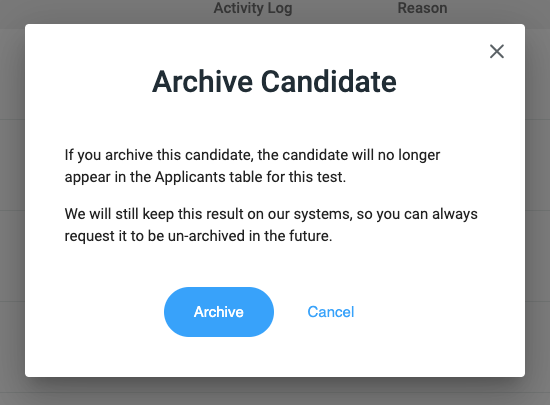
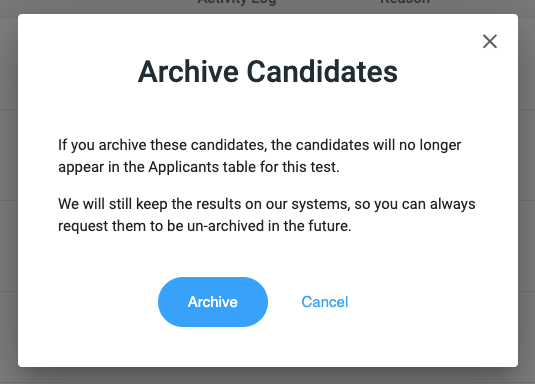
Updated Archive docs

diff --git a/docs/archive.md b/docs/archive.md
@@ -1,19 +1,27 @@
 # Archiving Candidates
 
-Once a candidate either passes or fails a CodeScreen test, you can remove them from the Applicants table
+Once candidates either pass or fail a CodeScreen test, you can remove them from the Applicants table
 by `Archiving` the candidate.
 
-To do this, click the blue `X` beside the candidate's email address.
+To do this, click the checkbox beside each candidate you want to archive. 
 
 <figure>
   <figcaption style="font-style: italic;"></figcaption>
   </br>
-  <img style="max-width: 70%;" src="passedCandidate.png" alt="Passed candidate"/>
+  <img style="max-width: 70%;" src="passedCandidates.png" alt="Passed candidate"/>
+</figure>
+
+Once you select one or more candidates, a `trash` icon will appear to the right of the `Failed` filter.
+
+<figure>
+  <figcaption style="font-style: italic;"></figcaption>
+  </br>
+  <img style="max-width: 70%;" src="passedCandidatesChecked.png" alt="Passed candidate checked"/>
 </figure>
 
 <br>
 
-You will then see the following pop-up:
+Once you click the trash icon, you will then see the following pop-up:
 
 <figure>
   <figcaption style="font-style: italic;"></figcaption>
@@ -23,8 +31,8 @@ You will then see the following pop-up:
 
 <br>
 
-As stated in the pop-up, we will keep the candidate's result on our systems, so you can retrieve it at any time by messaging us
-on our live chat or via <a href="mailto:hello@codescreen.dev">email</a>. <br>You can also request us to delete the result permanently,
+As stated in the pop-up, we will keep the candidates' results on our systems, so you can retrieve them at any time by messaging us
+on our live chat or via <a href="mailto:hello@codescreen.dev">email</a>. <br>You can also request us to delete the results permanently,
 again by messaging us on our live chat or via <a href="mailto:hello@codescreen.dev">email</a>.
 
-Once you click the blue `Archive` button, the candidate will no longer appear in the Applicant list table for that test.
+Once you click the blue `Archive` button, the candidates will no longer appear in the Applicant list table for that test.
